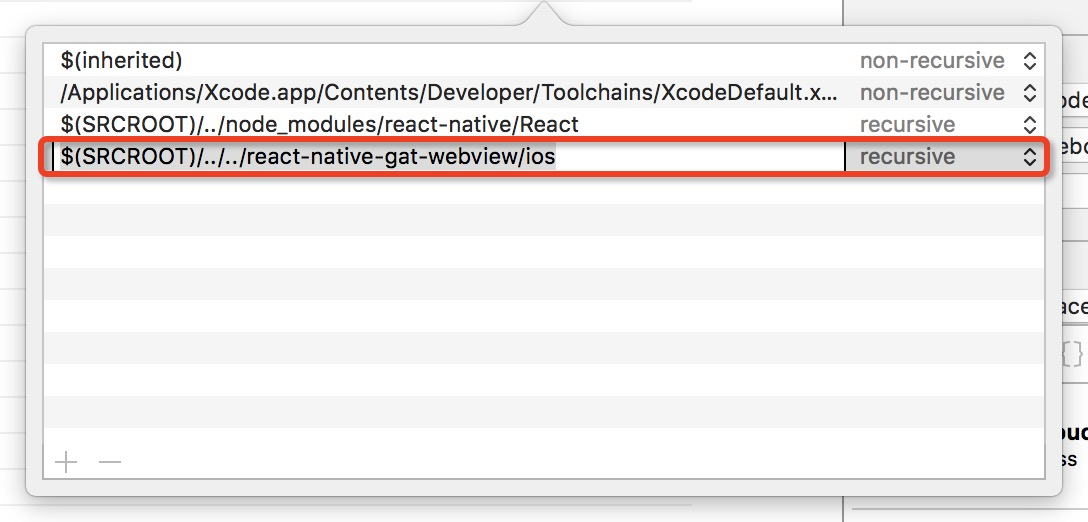
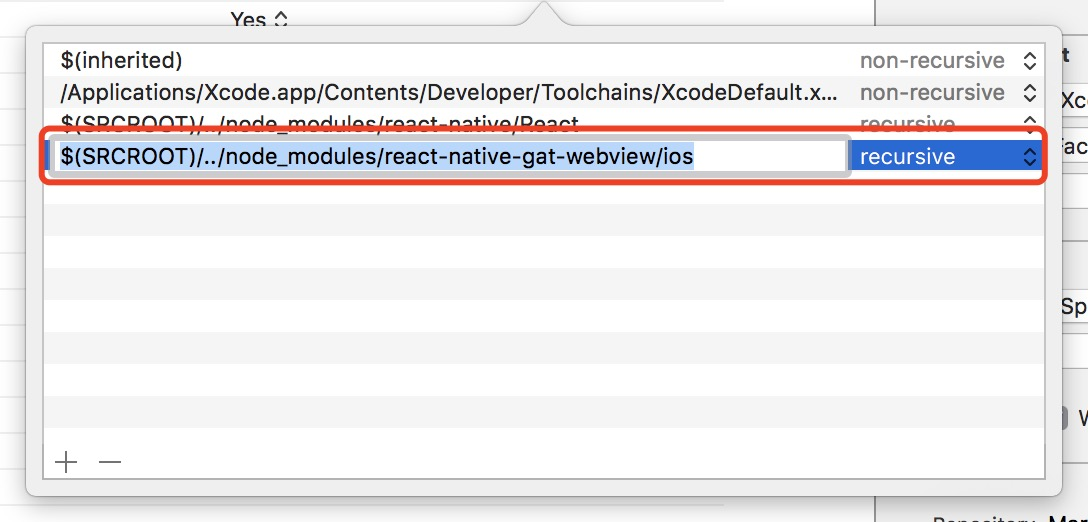
update README.md guide

diff --git a/README.md b/README.md
@@ -47,7 +47,7 @@ $npm install
   <img src = "doc/assets/06.png"/>
 </p>
 
-9, click `+` write in `$(SRCROOT)/../../react-native-gat-webview/ios` and select `recursive`.
+9, click `+` write in `$(SRCROOT)/../node_modules/react-native-gat-webview/ios` and select `recursive`.
 <p align ="center">
   <img src = "doc/assets/07.png"/>
 </p>
